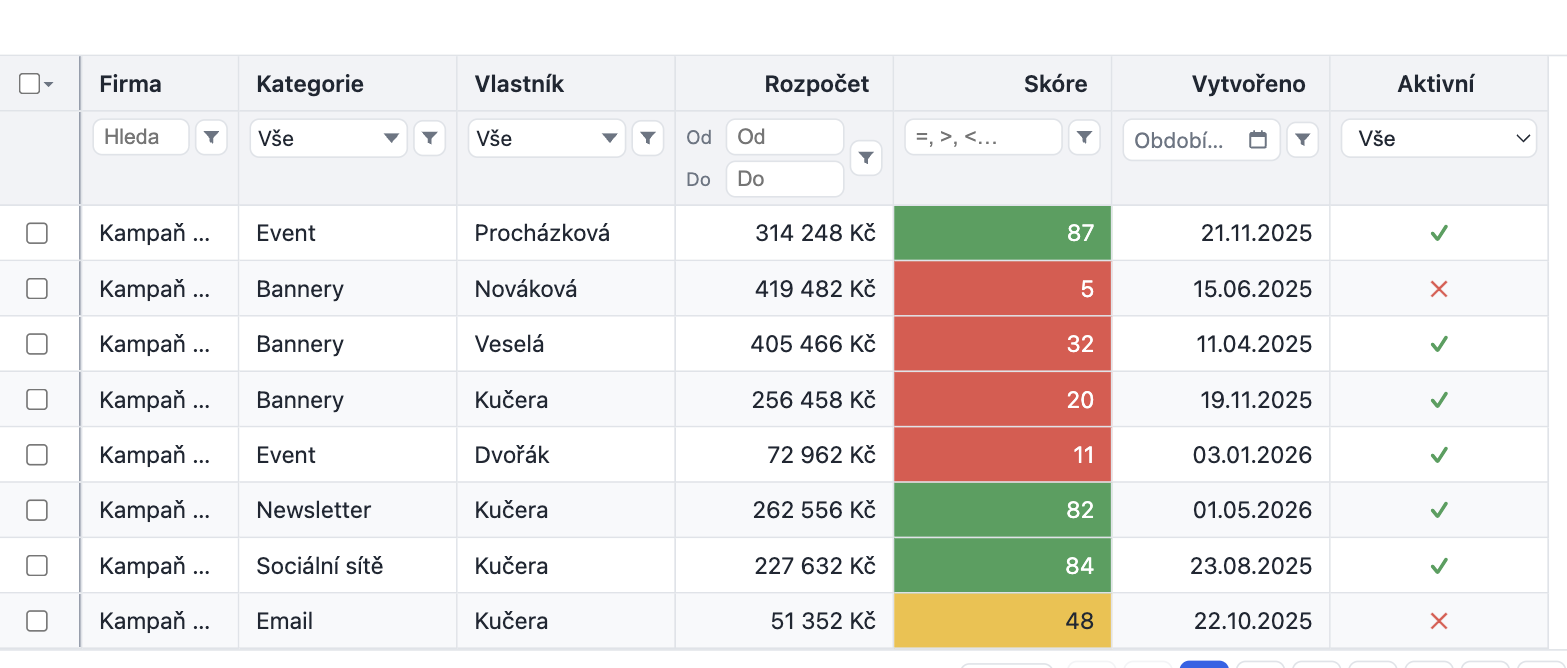
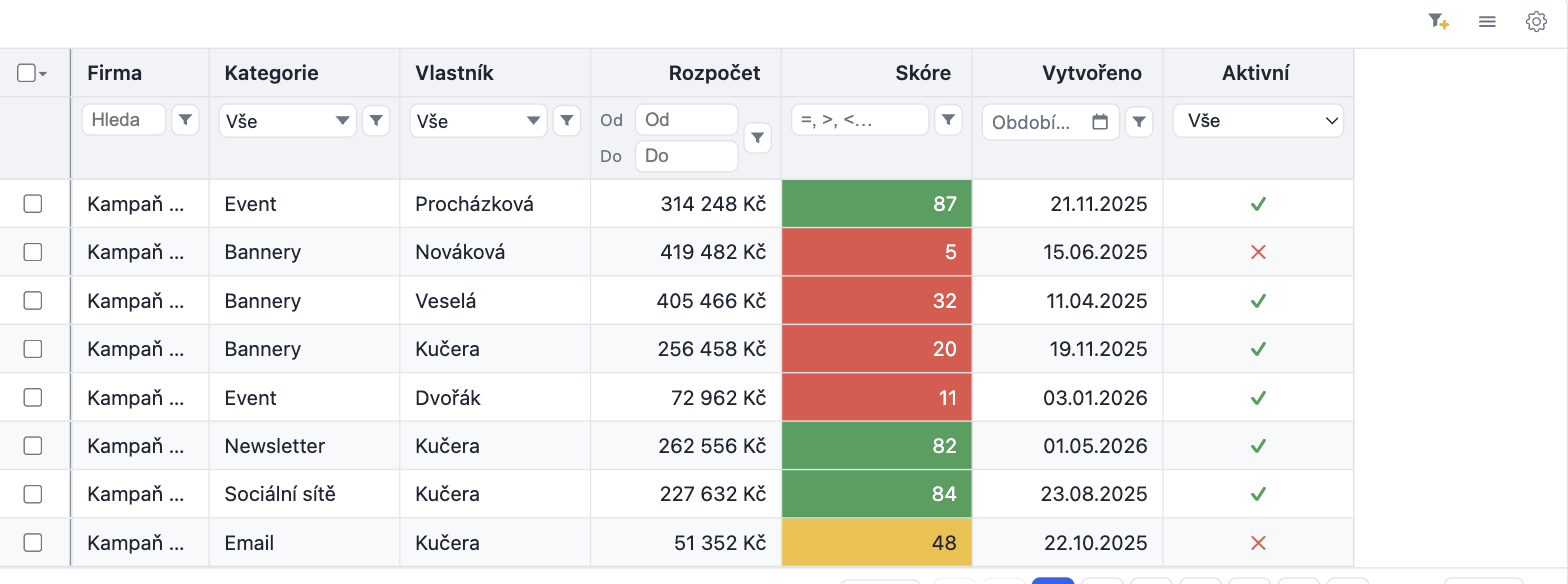
docs(prirucka): auto-fit — přenafotit před/po s toolbar ikonami + přidat otevřený dialog Sloupce se zvýrazněným tlačítkem

diff --git a/prirucka/index.html b/prirucka/index.html
@@ -205,6 +205,10 @@
         tak, aby se přesně vešel jejich obsah — úzké sloupce s oříznutým textem se roztáhnou,
         zbytečně široké se zúží.</p>
       <figure>
+        <img src="img/sirka-dialog.png" alt="Dialog Sloupce s tlačítkem Přizpůsobit šířku">
+        <figcaption>Dialog „Sloupce" — tlačítko <b>„Přizpůsobit šířku sloupců obsahu"</b> (zvýrazněné) je vlevo nahoře v hlavičce dialogu.</figcaption>
+      </figure>
+      <figure>
         <img src="img/sirka-pred.png" alt="Tabulka před přizpůsobením šířky">
         <figcaption><b>Před:</b> „Firma" je úzká a názvy jsou oříznuté (<i>Kampaň …</i>), zatímco ostatní sloupce plýtvají místem.</figcaption>
       </figure>
